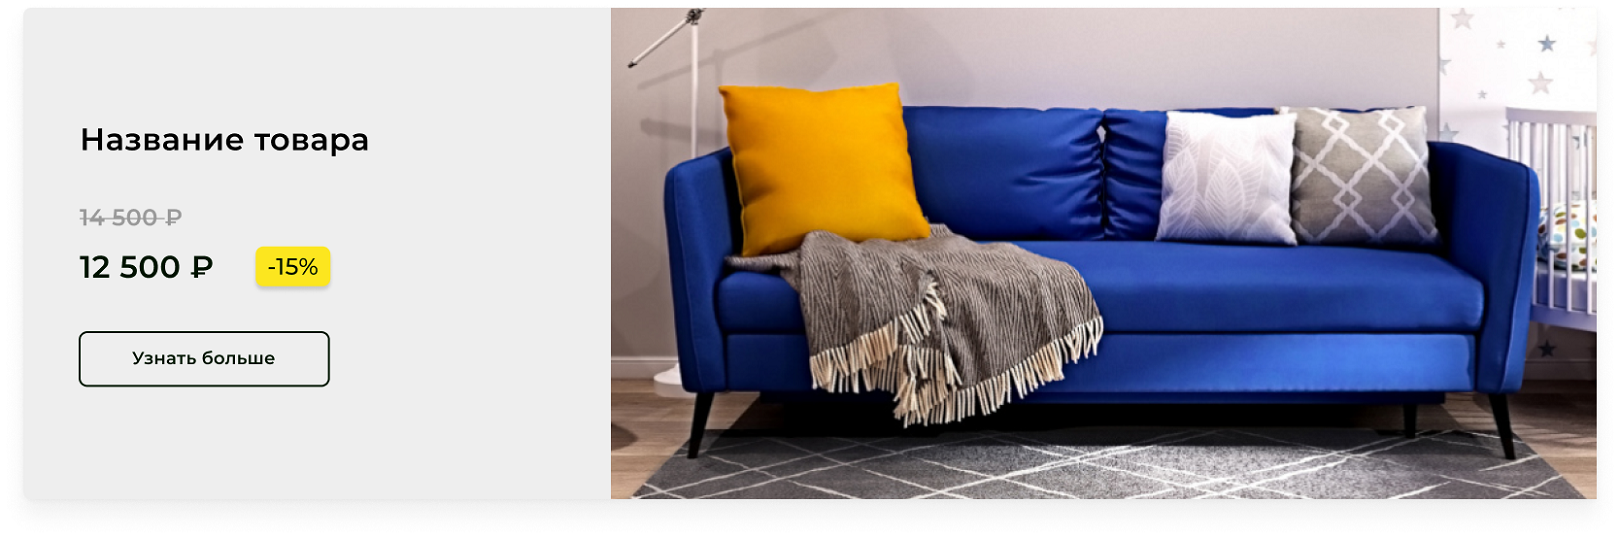
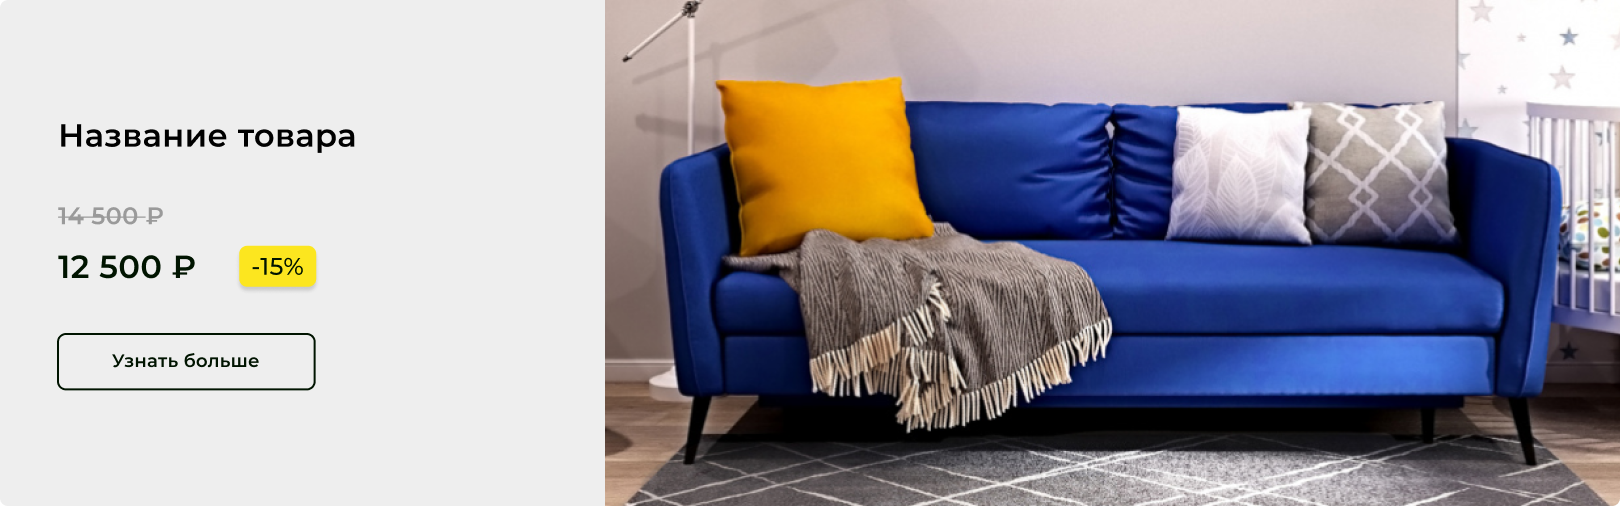
changing points in the slider and pictures

diff --git a/public/css/style.css b/public/css/style.css
@@ -189,14 +189,15 @@ article{
     height: 100%;
     object-fit: cover;
 }
-.swiper-button-prev, .swiper-button-next{
-    color: #837b7b73;
+.swiper-pagination-bullet{
+    width: 9px;
+    height: 9px;
 }
-.swiper-button-next:after, .swiper-button-prev:after {
-    font-size: 2em;
-}
+
 .swiper-pagination-bullet-active{
     background-color: #6FB740;
+    width: 11px;
+    height: 11px;
 }
 .content{
     /* margin-left: 1vw;    прилипает на ноуте
@@ -500,19 +501,14 @@ footer{
     background-color: #EEEEEE;
     width: 84vw;
     margin-top: 45px;
-    left: 8vw;
+    left: 7.4vw;
     box-shadow: 0px 8px 16px 0px rgba(0,0,0,0.2);
     border-radius: 5px;
     padding: 10px;
     z-index: 6;
 }
 
-.description {
-    display: -webkit-box;
-    overflow: hidden;
-    -webkit-line-clamp: 4;
-    -webkit-box-orient: vertical;
-}
+
 
 /* !!!! Добавить анимацию масштабирования для формы в модалке */
 .animate {

diff --git a/public/css/productDetail.css b/public/css/productDetail.css
@@ -110,6 +110,10 @@
     letter-spacing: 0.015em;
     text-align: justify;
     padding-top: 20px;
+    display: -webkit-box;
+    overflow: hidden;
+    -webkit-line-clamp: 4;
+    -webkit-box-orient: vertical;
 }
 #myBtn{
     font-weight: 600;
